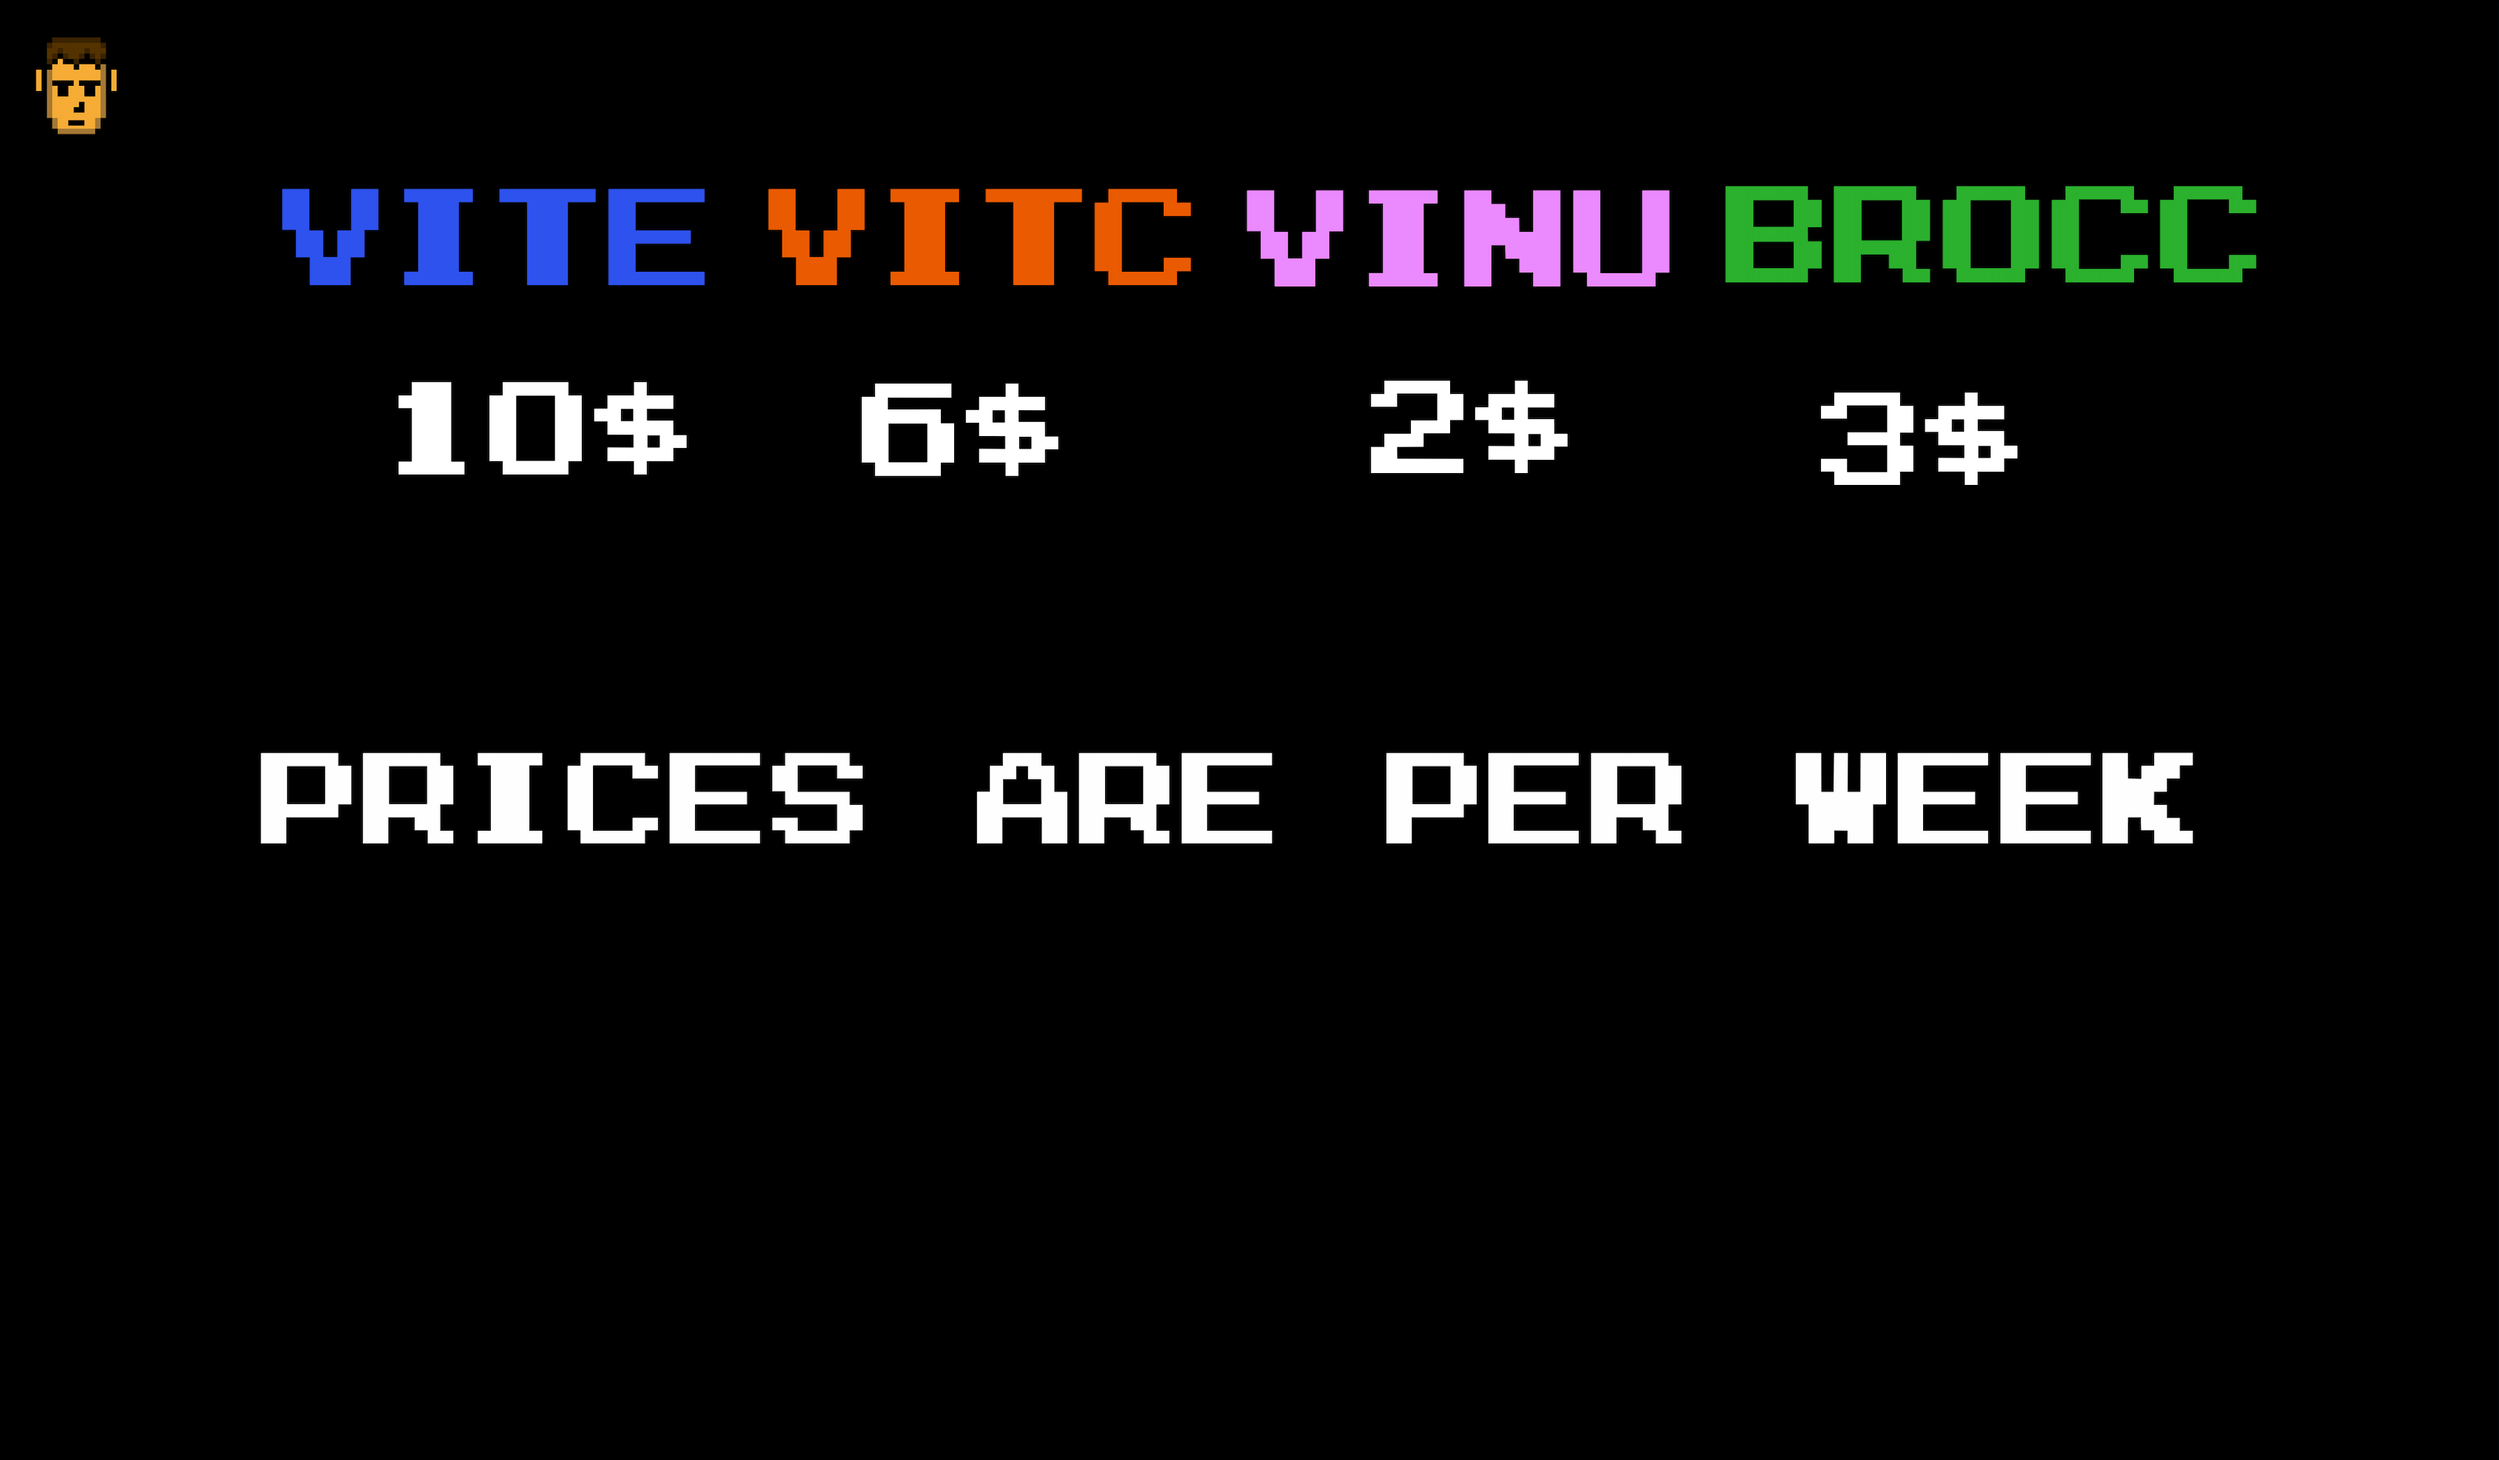
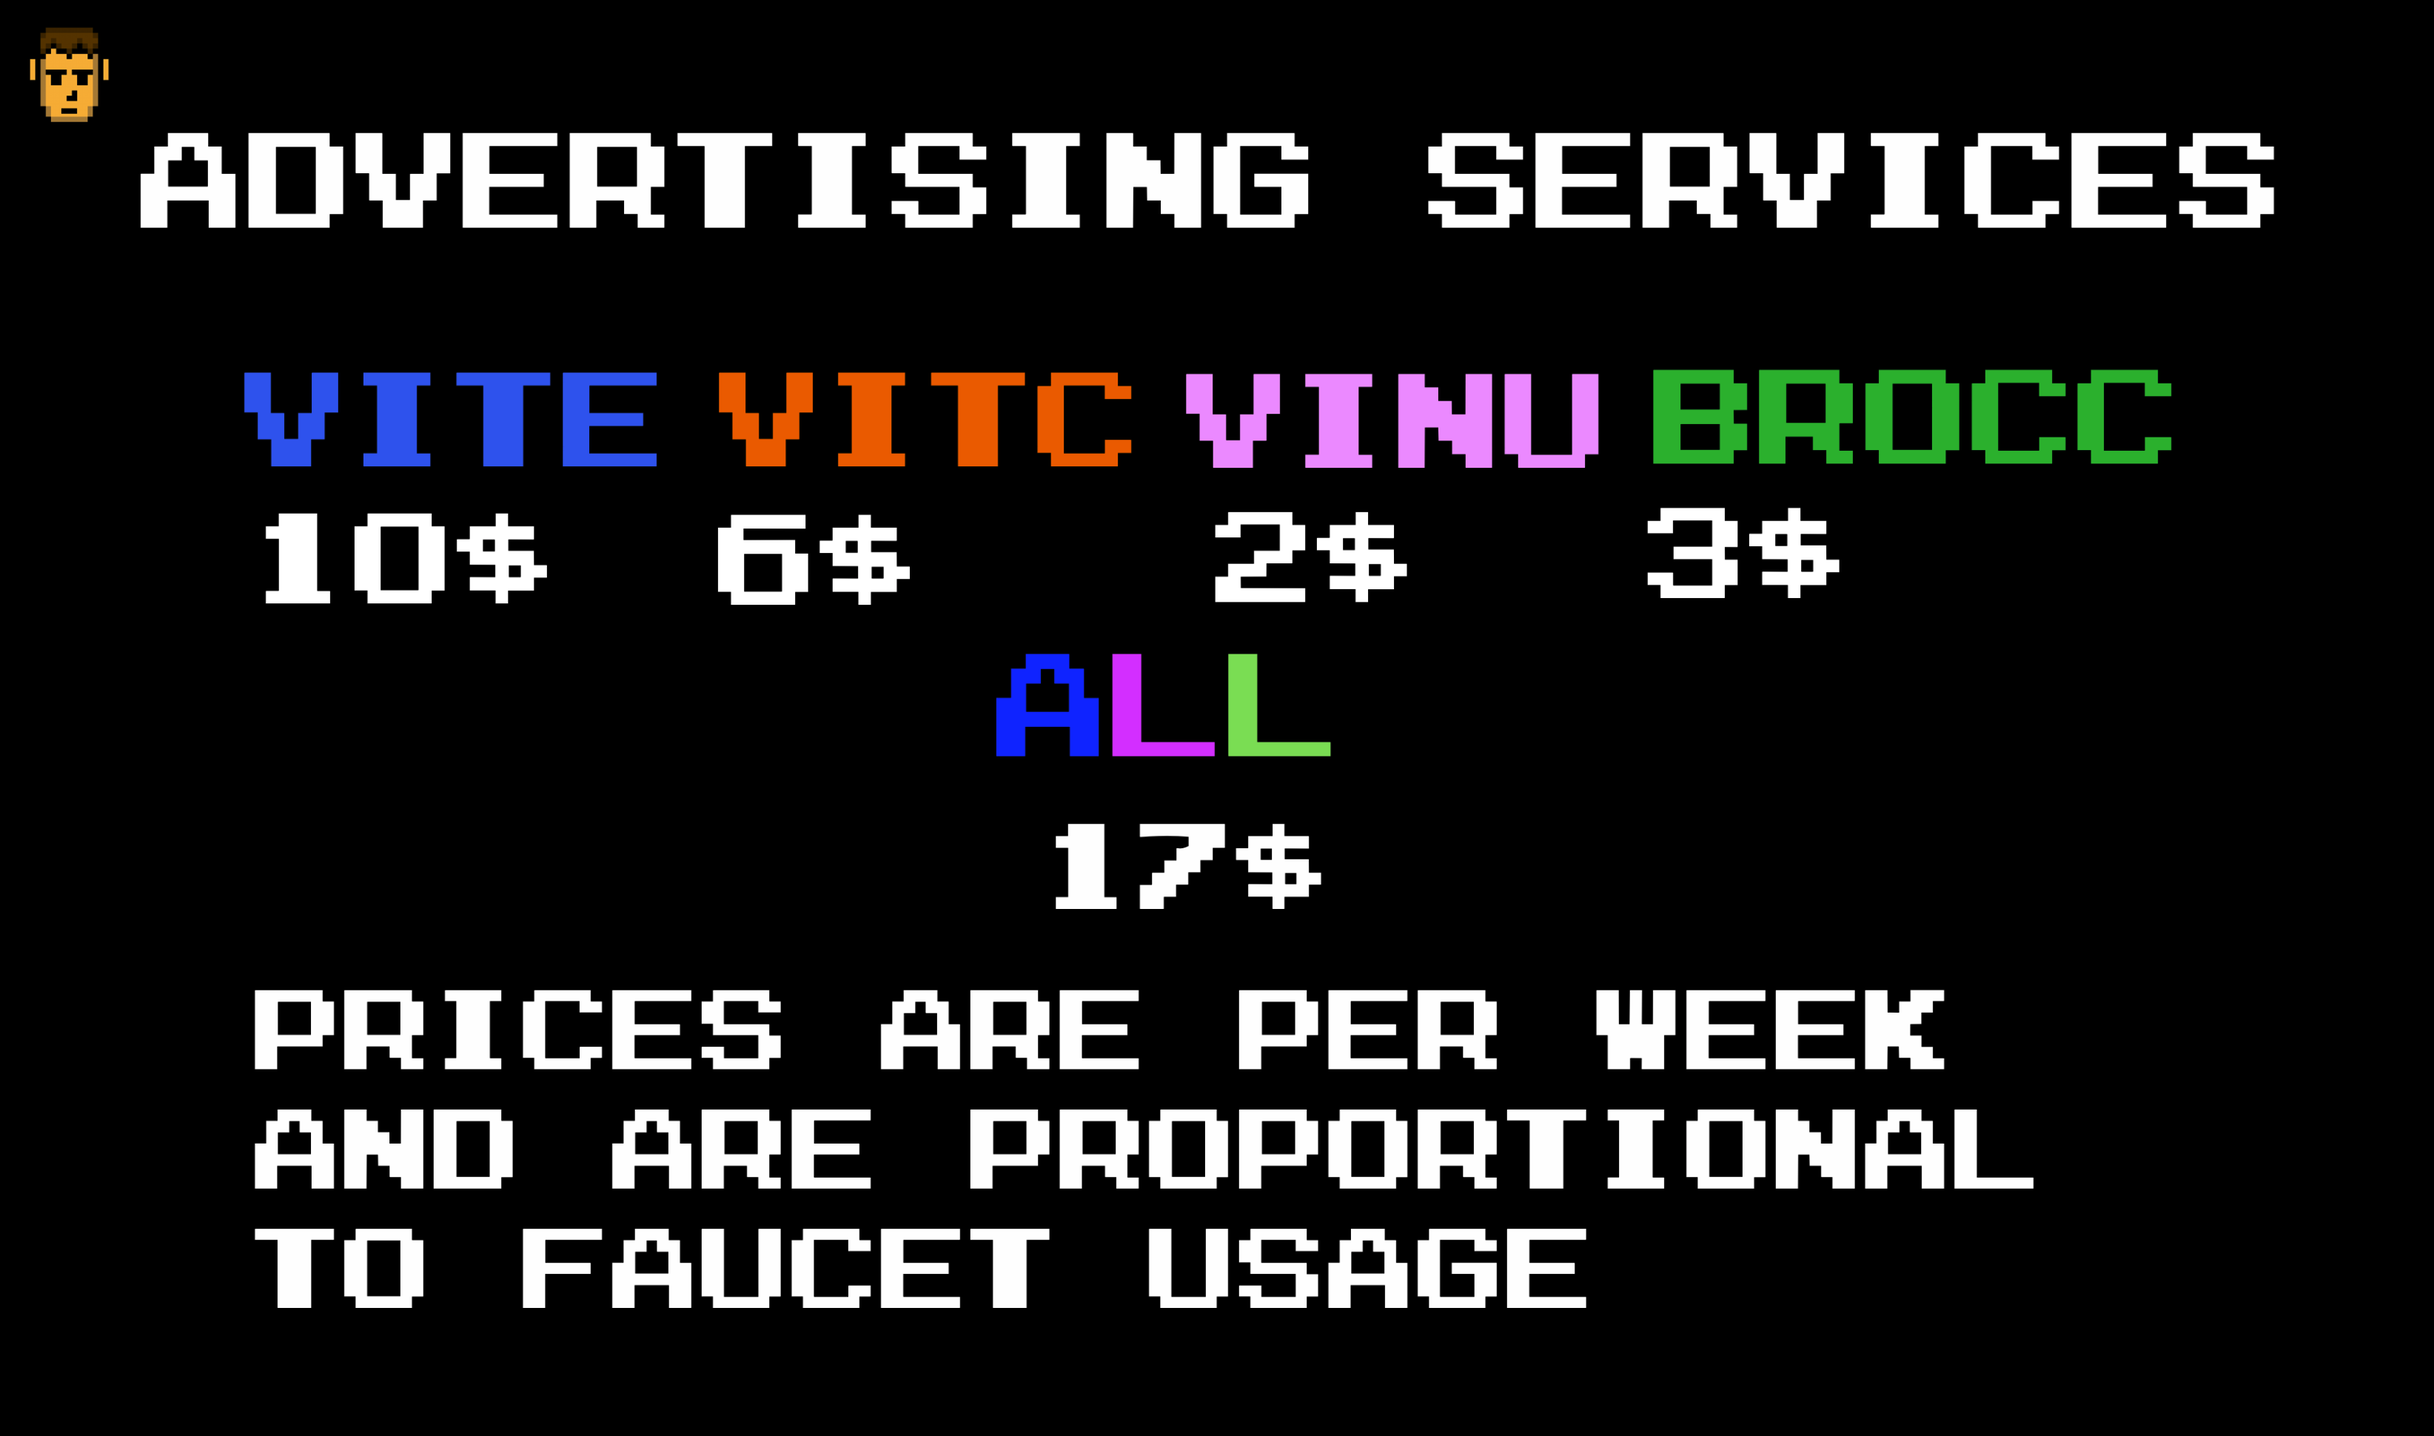
.

diff --git a/advertise.md b/advertise.md
@@ -1,3 +1,3 @@
-# **Adverti5e With Me**
-## I run a faucet Discord [server](https://5am.info/5hort/discord) with multiple [VITE](https://vite.org) based tokens! I offer an advertising service that will DM users that use the faucet with any advertisement you would like. Prices are based on which token is claimed the most. Prices below:
+# **Advertise With Me**
+## I run a faucet Discord [server](https://5am.info/5hort/discord) with multiple [VITE](https://vite.org) based tokens! I offer an advertising service that will DM users that use the faucet with any advertisement you would like. Prices are based on which token is claimed the most. Pricing
 ![Pricing](https://5am.info/media/advertise.png "priicing")
